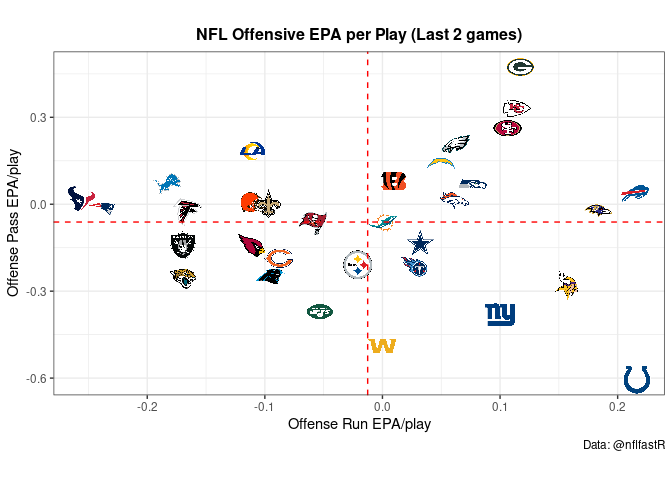
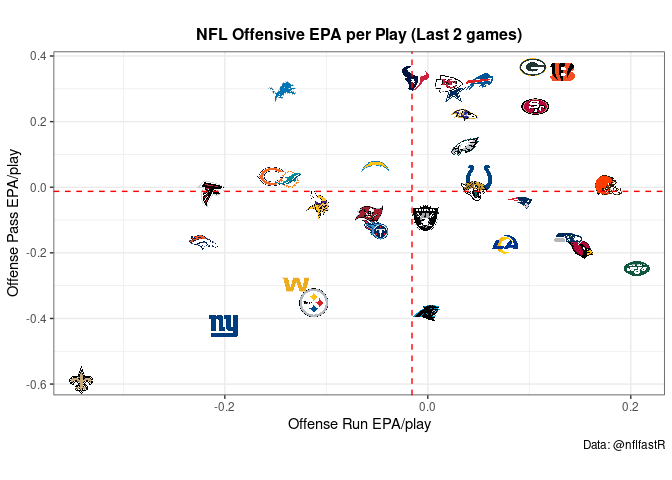
2021-12-28

diff --git a/NFL-Report.md b/NFL-Report.md
@@ -1,5 +1,5 @@
 
-# NFL Landscape: Week 15
+# NFL Landscape: Week 16
 
 ### Overall Efficiency Landscape
 
